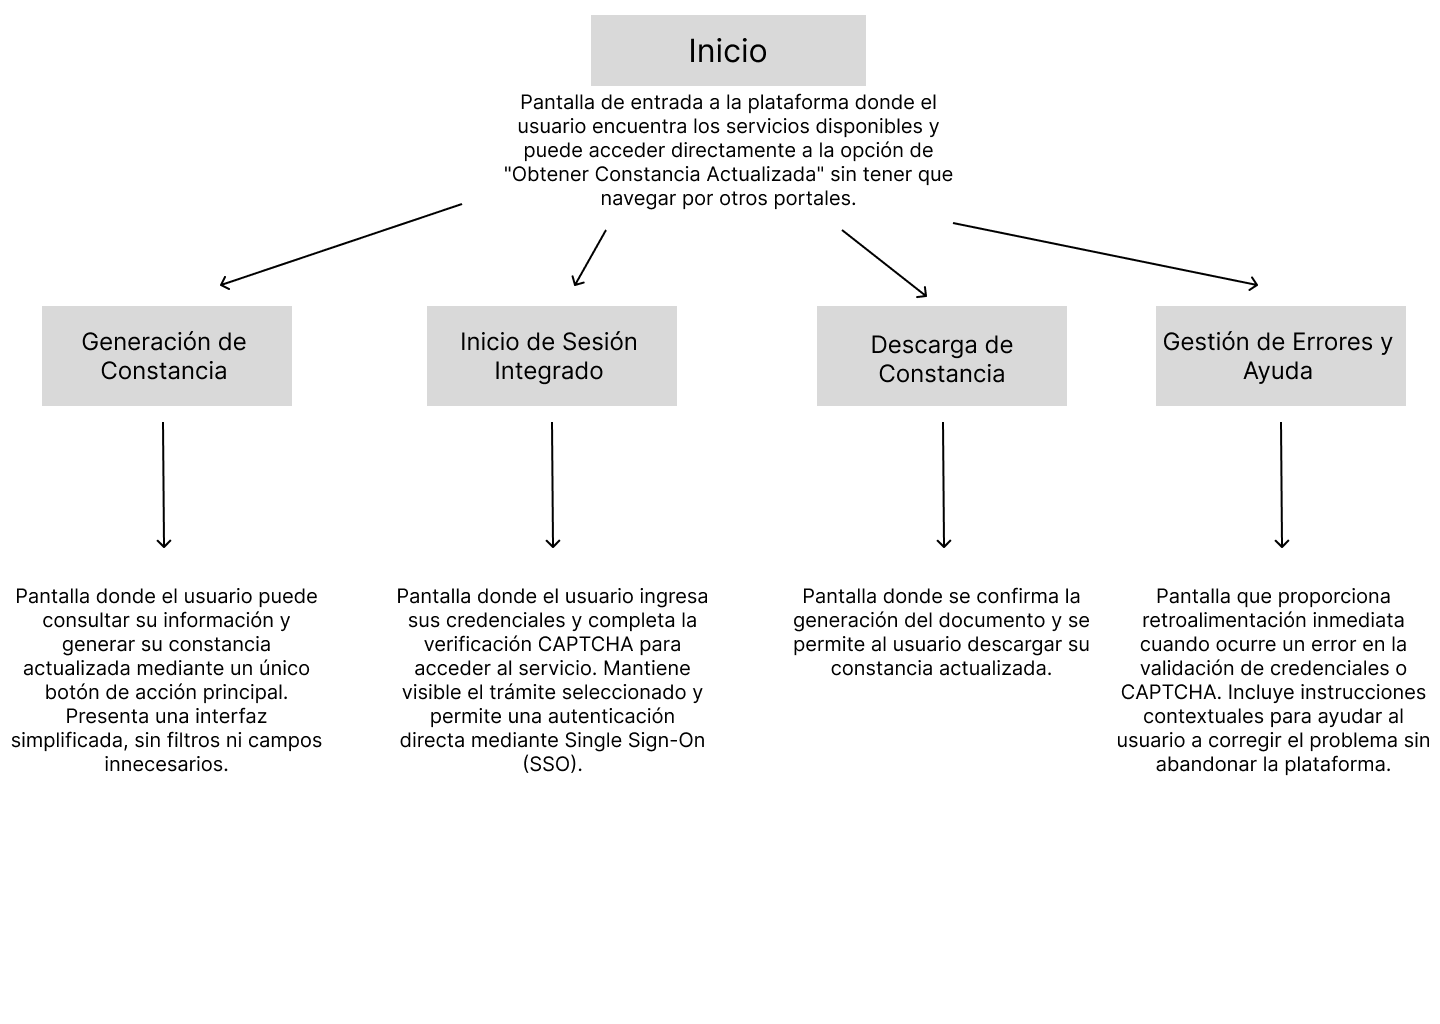
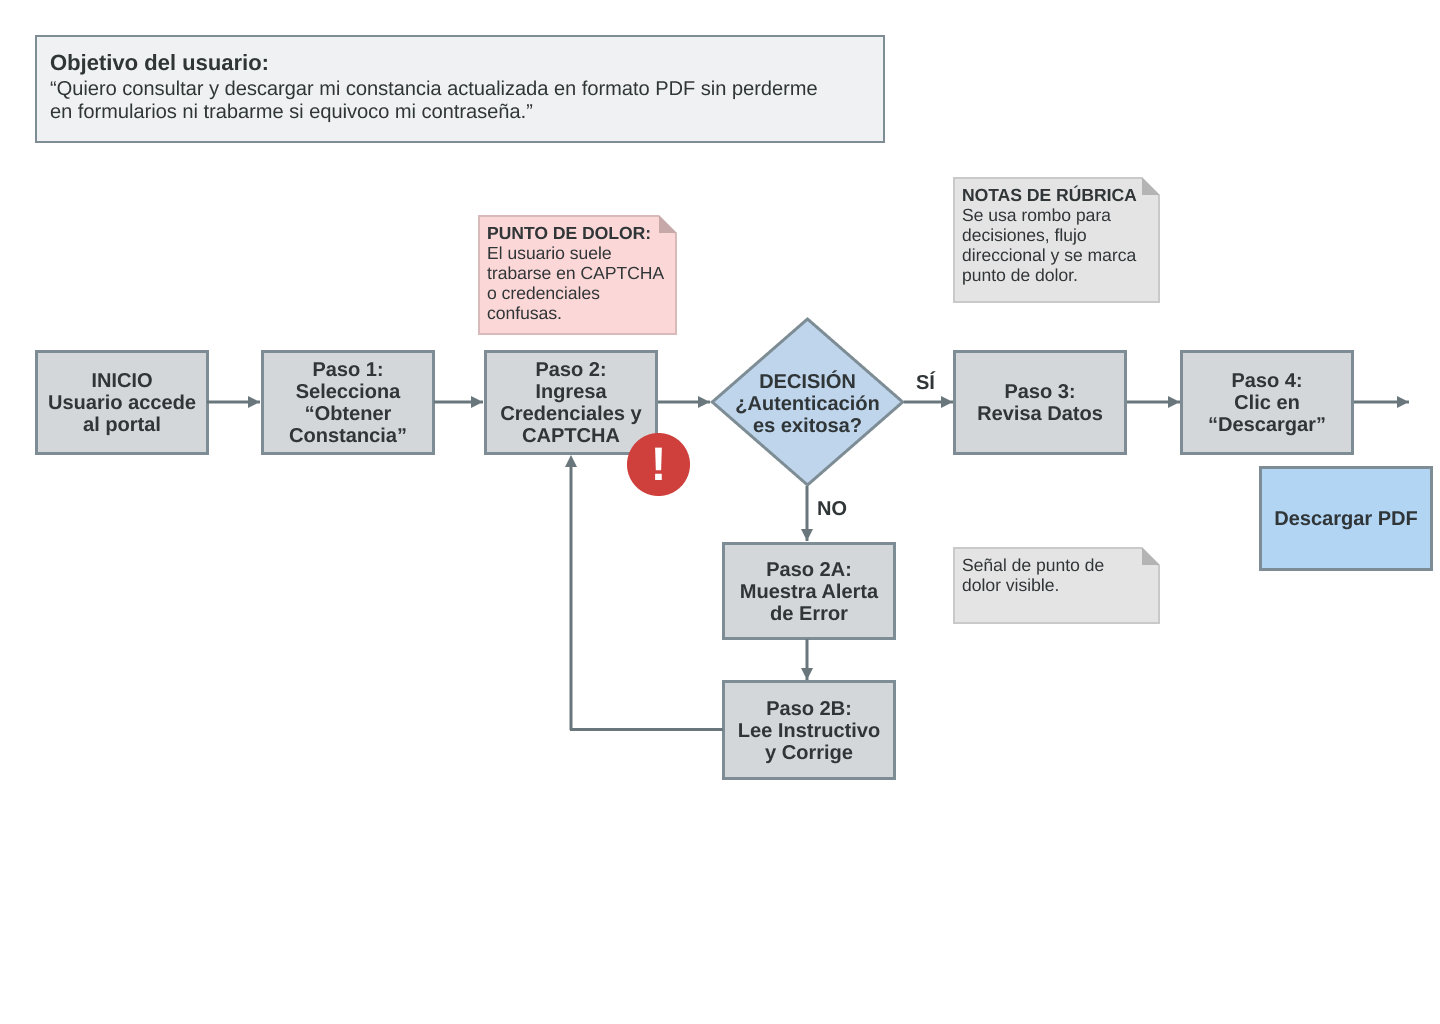
Agrega estructura de la plataforma

Changed region(s): [[0.0, 0.0, 1.0, 0.7812], [0.0, 0.5625, 0.2188, 0.75]]

diff --git a/docs/ui/estructura.md b/docs/ui/estructura.md
@@ -1,74 +1,118 @@
-# Estructura de la plataforma - Equipo Teki
- 
+# Estructura de la Plataforma
+
 ## Archivo de Figma
-https://www.figma.com/design/hqG6A2stQoI7cYATZNNL0J/Laboratorio-6?node-id=0-1&t=u1p3idaJjROVAZ1e-1
- 
+
+* **Nombre del archivo:** `Equipo Teky - Plataforma de Generación de Constancias`
+
+* **Enlace de Figma:** 
+
 ## Pantallas
-1. Portal Principal (Inicio)
-Permite al usuario encontrar los servicios disponibles y acceder directamente a la opción de "Obtener Constancia Actualizada", evitando que tenga que buscar el servicio en diferentes portales.
 
-2. Inicio de Sesión Integrado
-Permite ingresar las credenciales y completar la verificación CAPTCHA sin perder de vista el trámite seleccionado. Busca mantener la continuidad mediante una autenticación integrada (SSO).
+1. **Portal Principal (Inicio)**
 
-3. Generación de Constancia
-Presenta una interfaz simplificada para consultar la información necesaria y generar la constancia actualizada mediante un único botón principal: "Descargar Constancia Actualizada".
+   * **Descripción:** Pantalla de entrada a la plataforma donde el usuario encuentra los servicios disponibles y puede acceder directamente a la opción de "Obtener Constancia Actualizada" sin tener que navegar por otros portales.
 
-4. Gestión de Errores y Ayuda
-Proporciona mensajes inmediatos cuando ocurre un error en las credenciales o en el CAPTCHA. Incluye instrucciones contextuales para que el usuario pueda corregirlo sin abandonar el proceso.
+   * **Objetivo de UX:** Eliminar la búsqueda dispersa y reducir el número de clics iniciales.
 
-5. Descarga de Constancia
-Confirma que el documento fue generado y permite al usuario descargar su constancia actualizada.
- 
+2. **Inicio de Sesión Integrado (SSO)**
+
+   * **Descripción:** Pantalla donde el usuario ingresa sus credenciales y completa la verificación CAPTCHA para acceder al servicio. Mantiene visible el trámite seleccionado y permite una autenticación directa mediante Single Sign-On (SSO).
+
+   * **Objetivo de UX:** Garantizar la continuidad del trámite evitando que el usuario pierda el contexto de la solicitud elegida.
+
+3. **Generación de Constancia**
+
+   * **Descripción:** Pantalla donde el usuario puede consultar su información y generar su constancia actualizada mediante un único botón de acción principal. Presenta una interfaz simplificada, sin filtros ni campos innecesarios.
+
+   * **Objetivo de UX:** Disminuir la sobrecarga cognitiva durante la consulta y generación del documento.
+
+4. **Descarga de Constancia**
+
+   * **Descripción:** Pantalla donde se confirma la generación del documento y se permite al usuario descargar su constancia actualizada.
+
+   * **Objetivo de UX:** Proporcionar una confirmación clara y la entrega inmediata del archivo PDF final.
+
+5. **Gestión de Errores y Ayuda Contextual**
+
+   * **Descripción:** Pantalla que proporciona retroalimentación inmediata cuando ocurre un error en la validación de credenciales o CAPTCHA. Incluye instrucciones contextuales para ayudar al usuario a corregir el problema sin abandonar la plataforma.
+
+   * **Objetivo de UX:** Guiar al usuario paso a paso ante un fallo sin obligarlo a reiniciar todo el proceso.
+
 ## Trazabilidad con UX
-1. Autenticación y acceso directo
-- Portal Principal e Inicio de Sesión Integrado
-- Redirección directa al servicio seleccionado y autenticación integrada mediante SSO, manteniendo visible el destino del usuario.
 
-2. Simplificación de la interfaz de generación
-- Generación de Constancia y Descarga de Constancia
-- Eliminación de campos y filtros innecesarios, priorizando una sola acción principal para generar y descargar el documento.
+1. **Autenticación y acceso directo**
 
-3. Gestión de errores e instructivos contextuales
-- Inicio de Sesión Integrado y Gestión de Errores y Ayuda
-- Validación de credenciales y CAPTCHA con retroalimentación inmediata, mensajes claros e instrucciones para corregir errores.
- 
-## Origen de los datos
-1. Portal Principal
-- **Datos necesarios:** Nombre del servicio y opciones disponibles
-- **Origen:** Información institucional del portal; fuente específica por definir.
+   * **Requerimiento atendido:** Acceso sin rodeos al servicio seleccionado.
 
-2. Inicio de Sesión
-- **Datos necesarios**: Usuario y contraseña
-- **Origen:** Datos ingresados por el usuario.
+   * **Pantallas involucradas:** Portal Principal e Inicio de Sesión Integrado.
 
-3. Inicio de Sesión
-- **Datos necesarios:** Validación de credenciales
-- **Origen:** Sistema de autenticación institucional; integración por definir.
+   * **Justificación / Solución UX:** Redirección directa al servicio seleccionado y autenticación integrada mediante SSO, manteniendo visible el destino del usuario.
 
-4. Inicio de Sesión
-- **Datos necesarios:** CAPTCHA
-- **Origen:** Servicio de verificación CAPTCHA; proveedor por definir.
+2. **Simplificación de la interfaz de generación**
 
-5. Generación de Constancia
-- **Datos necesarios:** Información personal del usuario
-- **Origen:** Base de datos institucional; por definir.
+   * **Requerimiento atendido:** Fluidez en la obtención del documento.
 
-6. Generación de Constancia
-- **Datos necesarios:** Información necesaria para generar la constancia
-- **Origen:** Sistema institucional responsable del trámite; por definir.
+   * **Pantallas involucradas:** Generación de Constancia y Descarga de Constancia.
 
-7. Descarga de Constancia
-- **Datos necesarios:** Documento generado
-- **Origen:** Sistema de generación de constancias; por definir.
+   * **Justificación / Solución UX:** Eliminación de campos y filtros innecesarios, priorizando una sola acción principal para generar y descargar el documento.
 
-8. Gestión de Errores y Ayuda
-- **Datos necesarios:** Mensajes de error e instrucciones
-- **Origen:** Reglas de validación y documentación de ayuda; por definir.
- 
-## Decisiones y dudas
-- Se priorizó un acceso directo a "Obtener Constancia Actualizada" desde el portal principal para evitar que el usuario tenga que buscar nuevamente el servicio.
-- Se propuso una autenticación integrada para mantener la continuidad entre el portal y el inicio de sesión.
-- Filtros avanzados de búsqueda: se excluyeron porque no son necesarios para el flujo principal de descarga y pueden confundir al usuario.
-- Pantallas administrativas: no se incluyeron porque el alcance del proyecto se enfoca en la experiencia del usuario que obtiene su constancia.
-- Tenemos que: confirmar si el sistema institucional permite implementar autenticación integrada mediante SSO.
-- Identificar la base de datos y el sistema del que se obtiene la información necesaria para generar la constancia.
+3. **Gestión de errores e instructivos contextuales**
+
+   * **Requerimiento atendido:** Prevención de abandono por errores de credenciales o CAPTCHA.
+
+   * **Pantallas involucradas:** Inicio de Sesión Integrado y Gestión de Errores y Ayuda.
+
+   * **Justificación / Solución UX:** Validación de credenciales y CAPTCHA con retroalimentación inmediata, mensajes claros e instrucciones para corregir errores.
+
+## Origen de los Datos
+
+| No. | Pantalla / Bloque | Datos necesarios | Origen del dato / Fuente | 
+| ----- | ----- | ----- | ----- | 
+| **1** | **Portal Principal** | Nombre del servicio y opciones disponibles | Información institucional del portal (`config/services_catalog.json`) | 
+| **2** | **Inicio de Sesión** | Credenciales (Usuario y contraseña) | Datos ingresados por el usuario (`st.text_input`) | 
+| **3** | **Inicio de Sesión** | Validación de credenciales | Sistema de autenticación institucional / Proveedor SSO (`OAuth2 / SAML`) | 
+| **4** | **Inicio de Sesión** | Verificación CAPTCHA | Servicio externo de verificación CAPTCHA (`reCAPTCHA v3 / hCaptcha`) | 
+| **5** | **Generación de Constancia** | Información personal del usuario | Base de datos institucional (`db_usuarios.tb_perfil_contribuyente`) | 
+| **6** | **Generación de Constancia** | Información necesaria para generar la constancia | Sistema institucional responsable del trámite (`api/v1/constancias/status`) | 
+| **7** | **Descarga de Constancia** | Documento generado | Sistema de generación de constancias (`pdf_generator_service`) | 
+| **8** | **Gestión de Errores y Ayuda** | Mensajes de error e instrucciones | Reglas de validación y documentación de ayuda (`config/error_dictionary.py`) | 
+
+## User Flow y Sitemap
+
+### Coherencia de Flujo y Estructura
+
+* **Objetivo del Usuario:** "Quiero consultar y descargar mi constancia actualizada en formato PDF sin perderme en formularios ni trabarme si equivoco mi contraseña."
+
+* **Punto de Dolor Identificado:** Falla o confusión frecuente durante la validación del CAPTCHA o ingreso de credenciales de acceso.
+
+* **Construibilidad (Streamlit/Dash):** Bocetos estructurados estrictamente en filas apiladas y columnas, manteniendo filtros e información del perfil en la barra lateral izquierda (`sidebar`).
+
+### Leyenda de Accesos del Sitemap
+
+*  **Verde (Pública):** Pantalla de entrada accesible a cualquier visitante sin autenticar.
+
+* **Amarillo (Autenticación):** Acceso protegido y validación mediante Single Sign-On (SSO).
+
+* **Azul (Trámite Protegido):** Módulos de consulta, generación y descarga del documento.
+
+* **Rojo (Excepción / Ayuda):** Interfaz para resolución de errores e instrucciones contextuales.
+
+## Decisiones y Dudas
+
+### Decisiones tomadas
+
+* Se priorizó un acceso directo a "Obtener Constancia Actualizada" desde el portal principal para evitar que el usuario tenga que buscar nuevamente el servicio.
+
+* Se propuso una autenticación integrada (SSO) para mantener la continuidad entre el portal y el inicio de sesión.
+
+* **Filtros avanzados de búsqueda:** Se excluyeron porque no son necesarios para el flujo principal de descarga y pueden confundir al usuario.
+
+* **Pantallas administrativas:** No se incluyeron porque el alcance del proyecto se enfoca en la experiencia del usuario que obtiene su constancia.
+
+* **Diseño para Framework (Streamlit/Dash):** Todos los elementos se organizaron verticalmente en bloques apilados para garantizar que se puedan programar mediante layout estándar de filas/columnas.
+
+### Dudas / Temas por resolver
+
+* Confirmar si el sistema institucional permite implementar autenticación integrada mediante SSO (`OAuth2 / SAML`).
+
+* Identificar la base de datos específica y el microservicio backend del que se obtendrá el stream binario para la generación final del archivo PDF.
